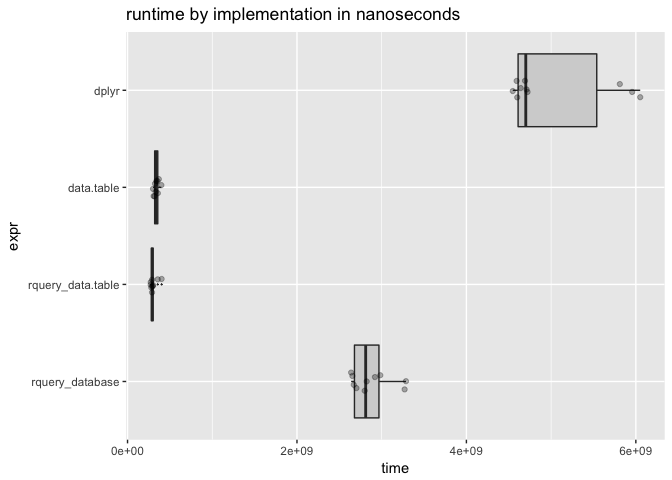
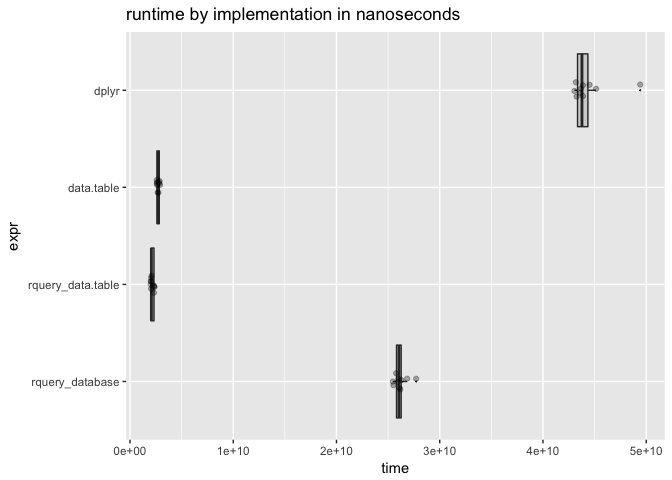
re-run larger example

diff --git a/extras/data_table.md b/extras/data_table.md
@@ -231,7 +231,7 @@ data.table_local(dL) %.>%
 Timings on a larger example.
 
 ``` r
-dL <- mk_example(100000, 10)
+dL <- mk_example(1000000, 10)
 ```
 
 ``` r
@@ -284,17 +284,17 @@ timings <- microbenchmark(times = 10L,
 print(timings)
 ```
 
-    ## Unit: milliseconds
+    ## Unit: seconds
     ##               expr       min        lq      mean    median        uq
-    ##    rquery_database 2639.4338 2670.7015 2874.9780 2811.0716 2983.3504
-    ##  rquery_data.table  273.0115  279.4621  305.6823  291.4216  302.9606
-    ##         data.table  300.9833  318.7320  340.4424  336.1054  357.8602
-    ##              dplyr 4547.3340 4600.1153 5032.4030 4700.9753 5810.9175
+    ##    rquery_database 25.454224 25.773197 26.182181 26.051107 26.292597
+    ##  rquery_data.table  2.000953  2.041727  2.159701  2.070891  2.323013
+    ##         data.table  2.598339  2.615932  2.728320  2.714212  2.848972
+    ##              dplyr 43.045310 43.256783 44.359776 43.774823 44.511908
     ##        max neval
-    ##  3286.7449    10
-    ##   402.3675    10
-    ##   399.4076    10
-    ##  6051.7388    10
+    ##  27.716502    10
+    ##   2.368721    10
+    ##   2.898287    10
+    ##  49.418618    10
 
 ``` r
 # summarize by hand using rquery database connector
@@ -307,12 +307,12 @@ timings %.>%
   knitr::kable(.)
 ```
 
-| expr               |        mean|
-|:-------------------|-----------:|
-| dplyr              |  5032402983|
-| rquery\_database   |  2874978012|
-| rquery\_data.table |   305682287|
-| data.table         |   340442440|
+| expr               |         mean|
+|:-------------------|------------:|
+| dplyr              |  44359776206|
+| rquery\_database   |  26182180787|
+| rquery\_data.table |   2159700612|
+| data.table         |   2728320460|
 
 ``` r
 autoplot(timings)
